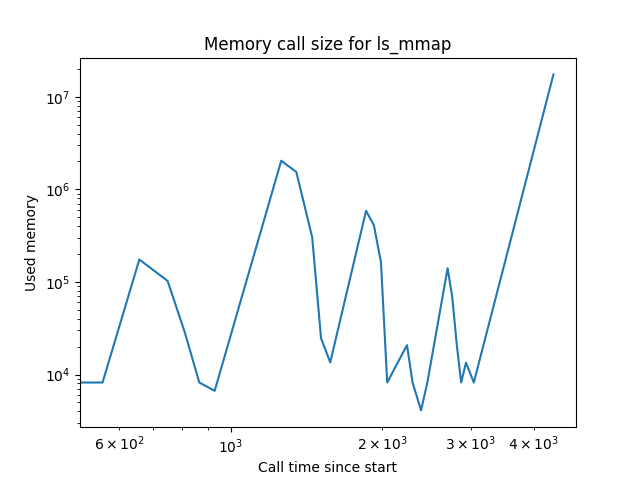
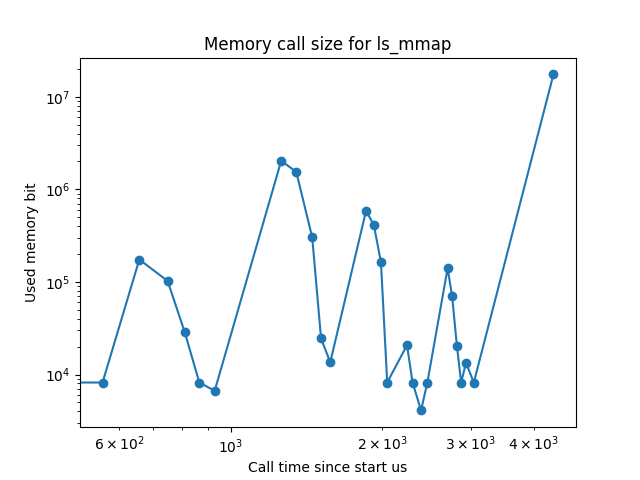
clear_graphs

diff --git a/analyser.py b/analyser.py
@@ -29,11 +29,12 @@ if __name__ == "__main__":
                 prot = args[2].split('|')
                 flags = args[3].split('|')
         dataframe = pd.DataFrame(data)
+        plt.scatter(dataframe["Time"],dataframe["Memory"])
         plt.plot(dataframe["Time"],dataframe["Memory"])
         plt.title("Memory call size for "+filename.split(".")[0])
         plt.xscale("log")
         plt.yscale("log")
-        plt.xlabel("Call time since start")
-        plt.ylabel("Used memory")
+        plt.xlabel("Call time since start us")
+        plt.ylabel("Used memory bit")
         plt.savefig("graphs/"+filename.split(".")[0]+".png")
         plt.clf()
